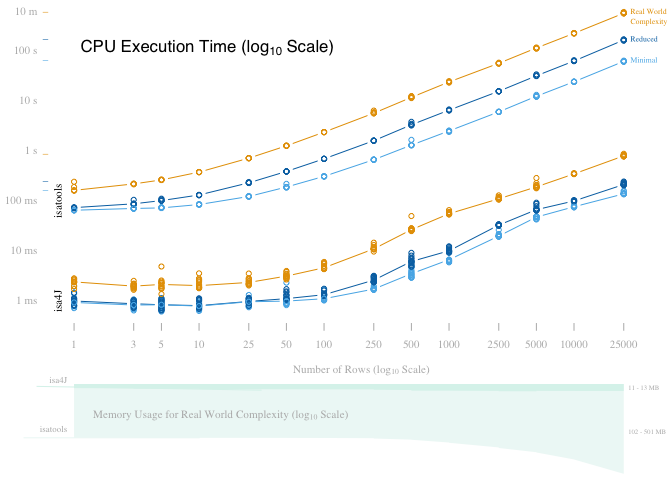
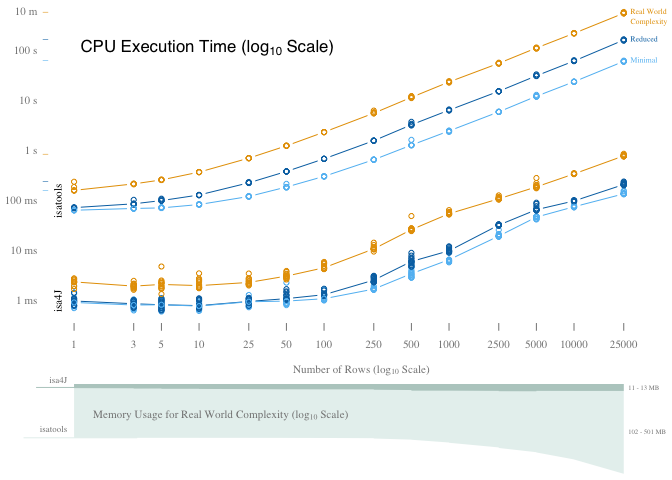
Update colors in scalability figure

diff --git a/docs/scalability-evaluation.md b/docs/scalability-evaluation.md
@@ -3,8 +3,6 @@ title: "Scalability Evaluation"
 nav_order: 4
 ---
 
-
-
 # Scalability Evaluation
 {: .no_toc }
 
@@ -116,24 +114,27 @@ This is the visualization that is also part of the paper:
 data$color = "black"
 data[data$row.complexity == "real_world",]$color = "#e69f00"
 data[data$row.complexity == "reduced",]$color = "#0072b2"
-data[data$row.complexity == "minimal",]$color = "#56B4E9"
+data[data$row.complexity == "minimal",]$color = "#61BEF3" #56B4E9
+col.gray = "gray52"
+col.green.dark = "#B8CDC8" #DBF3ED 
+col.green.light = "#E7F1EF" #EEF8F6 
 
 #pdf("figure.pdf", 6.92913, 3.6, colormodel="cmyk")
 par(family="serif", cex=0.7, mar=c(4.5,3.8,0,0), fig=c(0,1,0.2,1))
 xlim = c(0, 4.6)
-plot(data$time.in.ns.log ~ data$n.rows.log, xlim=xlim, col=data$color, axes=F, xlab=expression("Number of Rows (log"[10]~"Scale)"), ylab="", col.lab="gray72")
-axis(1, col=F, col.tick="gray72", at=log(c(1,3,5,10,25,50,100,250,500,1000,2500,5000,10000,25000), 10), labels=c(1,3,5,10,25,50,100,250,500,1000,2500,5000,10000,25000), col.axis="gray72")
-axis(2, las=2, at=c(seq(-3,2), log(600,10)), labels=c("1 ms","10 ms", "100 ms", "1 s", "10 s", "100 s", "10 m"), col=F, col.axis="gray72")
+plot(data$time.in.ns.log ~ data$n.rows.log, xlim=xlim, col=data$color, axes=F, xlab=expression("Number of Rows (log"[10]~"Scale)"), ylab="", col.lab=col.gray)
+axis(1, col=F, col.tick=col.gray, at=log(c(1,3,5,10,25,50,100,250,500,1000,2500,5000,10000,25000), 10), labels=c(1,3,5,10,25,50,100,250,500,1000,2500,5000,10000,25000), col.axis=col.gray)
+axis(2, las=2, at=c(seq(-3,2), log(600,10)), labels=c("1 ms","10 ms", "100 ms", "1 s", "10 s", "100 s", "10 m"), col=F, col.axis=col.gray)
 
 text(0, 2, expression("CPU Execution Time (log"[10]~"Scale)"), pos=4, cex=1.5, family="sans")
 mtext("isatools", side=2, at=-1, line=-1, cex=0.7)
 mtext("isa4J", side=2, at=-3, line=-1, cex=0.7)
 mtext("|", side=2, at=max(data[data$platform == "isatools" & data$row.complexity == "real_world",]$time.in.ns.log), col="#e69f00", cex=0.5)
 mtext("|", side=2, at=max(data[data$platform == "isatools" & data$row.complexity == "reduced",]$time.in.ns.log), col="#0072b2", cex=0.5)
-mtext("|", side=2, at=max(data[data$platform == "isatools" & data$row.complexity == "minimal",]$time.in.ns.log), col="#56B4E9", cex=0.5)
+mtext("|", side=2, at=max(data[data$platform == "isatools" & data$row.complexity == "minimal",]$time.in.ns.log), col="#61BEF3", cex=0.5)
 mtext("|", side=2, at=max(data[data$platform == "isa4J" & data$row.complexity == "real_world",]$time.in.ns.log), col="#e69f00", cex=0.5)
 mtext("|", side=2, at=max(data[data$platform == "isa4J" & data$row.complexity == "reduced",]$time.in.ns.log), col="#0072b2", cex=0.5)
-mtext("|", side=2, at=max(data[data$platform == "isa4J" & data$row.complexity == "minimal",]$time.in.ns.log), col="#56B4E9", cex=0.5)
+mtext("|", side=2, at=max(data[data$platform == "isa4J" & data$row.complexity == "minimal",]$time.in.ns.log), col="#61BEF3", cex=0.5)
 
 sub = data[data$row.complexity == "real_world" & data$platform == "isatools",]
 t = tapply(sub$time.in.ns.log, sub$n.rows.log, FUN=median)
@@ -148,8 +149,8 @@ text(max(sub$n.rows.log), max(sub$time.in.ns.log), "Reduced", pos=4, col="#0072b
 
 sub = data[data$row.complexity == "minimal" & data$platform == "isatools",]
 t = tapply(sub$time.in.ns.log, sub$n.rows.log, FUN=median)
-lines(as.numeric(names(t)), t, col="#56B4E9", type="b")
-text(max(sub$n.rows.log), max(sub$time.in.ns.log), "Minimal", pos=4, col="#56B4E9", cex=0.7)
+lines(as.numeric(names(t)), t, col="#61BEF3", type="b")
+text(max(sub$n.rows.log), max(sub$time.in.ns.log), "Minimal", pos=4, col="#61BEF3", cex=0.7)
 
 sub = data[data$row.complexity == "real_world" & data$platform == "isa4J",]
 t = tapply(sub$time.in.ns.log, sub$n.rows.log, FUN=median)
@@ -161,7 +162,7 @@ lines(as.numeric(names(t)), t, col="#0072b2", type="b")
 
 sub = data[data$row.complexity == "minimal" & data$platform == "isa4J",]
 t = tapply(sub$time.in.ns.log, sub$n.rows.log, FUN=median)
-lines(as.numeric(names(t)), t, col="#56B4E9", type="b")
+lines(as.numeric(names(t)), t, col="#61BEF3", type="b")
 
 # Memory Plot
 par(fig=c(0,1,0,0.2), mar=c(0.2,3.8,0,0), new=T)
@@ -169,21 +170,21 @@ memSub = data[data$row.complexity == "real_world",]
 plot(-memSub$memory.usage.in.mb.log ~ memSub$n.rows.log, type="n", axes=F, xlim=xlim, xlab="", ylab="")
 memSub.isatools = memSub[memSub$platform == "isatools",]
 memSub.isa4J = memSub[memSub$platform == "isa4J",]
-polygon(c(memSub.isatools$n.rows.log, max(memSub$n.rows.log), min(memSub$n.rows.log)),  -c(memSub.isatools$memory.usage.in.mb.log, min(memSub$n.rows.log), min(memSub$n.rows.log) ), col="#EEF8F6", border=NA) #DBF3ED
-polygon(c(memSub.isa4J$n.rows.log, max(memSub$n.rows.log), min(memSub$n.rows.log)),  -c(memSub.isa4J$memory.usage.in.mb.log, min(memSub$n.rows.log), min(memSub$n.rows.log) ), col="#DBF3ED", border=NA) #A1D7CA
+polygon(c(memSub.isatools$n.rows.log, max(memSub$n.rows.log), min(memSub$n.rows.log)),  -c(memSub.isatools$memory.usage.in.mb.log, min(memSub$n.rows.log), min(memSub$n.rows.log) ), col=col.green.light, border=NA) #DBF3ED
+polygon(c(memSub.isa4J$n.rows.log, max(memSub$n.rows.log), min(memSub$n.rows.log)),  -c(memSub.isa4J$memory.usage.in.mb.log, min(memSub$n.rows.log), min(memSub$n.rows.log) ), col=col.green.dark, border=NA) #A1D7CA
 
-text(0.1, -1.6, expression("Memory Usage for Real World Complexity (log"[10]~"Scale)"), pos=4, col="gray72")
+text(0.1, -1.6, expression("Memory Usage for Real World Complexity (log"[10]~"Scale)"), pos=4, col=col.gray)
 
-text(0, -0.9, "isa4J", pos=2, xpd=NA, col="gray72", cex=0.8)
-text(0, -1.85, "isatools", pos=2, xpd=NA, col="gray72", cex=0.8)
+text(0, -0.9, "isa4J", pos=2, xpd=NA, col=col.gray, cex=0.8)
+text(0, -1.85, "isatools", pos=2, xpd=NA, col=col.gray, cex=0.8)
 
-text(log(24000,10), -1.05, paste(round(min(memSub.isa4J$memory.usage.in.mb), 0), "-", round(max(memSub.isa4J$memory.usage.in.mb), 0),"MB"), pos=4, xpd=NA, col="gray72", cex=0.6)
+text(log(24000,10), -1.05, paste(round(min(memSub.isa4J$memory.usage.in.mb), 0), "-", round(max(memSub.isa4J$memory.usage.in.mb), 0),"MB"), pos=4, xpd=NA, col=col.gray, cex=0.6)
 
-text(log(24000,10), -1.9, paste(round(min(memSub.isatools$memory.usage.in.mb), 0), "-", round(max(memSub.isatools$memory.usage.in.mb), 0),"MB"), pos=4, xpd=NA, col="gray72", cex=0.6)
+text(log(24000,10), -1.9, paste(round(min(memSub.isatools$memory.usage.in.mb), 0), "-", round(max(memSub.isatools$memory.usage.in.mb), 0),"MB"), pos=4, xpd=NA, col=col.gray, cex=0.6)
 
-segments(-0.3, -min(memSub.isa4J$memory.usage.in.mb.log)*0.98, 1.5, -max(memSub.isa4J$memory.usage.in.mb.log)*0.98, col="#DBF3ED", xpd=NA)
+segments(-0.3, -min(memSub.isa4J$memory.usage.in.mb.log), 0.5, -min(memSub.isa4J$memory.usage.in.mb.log), col=col.green.dark, xpd=NA)
 
-segments(-0.4, -min(memSub.isatools$memory.usage.in.mb.log), 1, -min(memSub.isatools$memory.usage.in.mb.log), col="#EEF8F6", xpd=NA)
+segments(-0.4, -min(memSub.isatools$memory.usage.in.mb.log), 0.5, -min(memSub.isatools$memory.usage.in.mb.log), col=col.green.light, xpd=NA)
 ```
 
 ![](scalability-evaluation_files/figure-html/unnamed-chunk-8-1.png)<!-- -->
